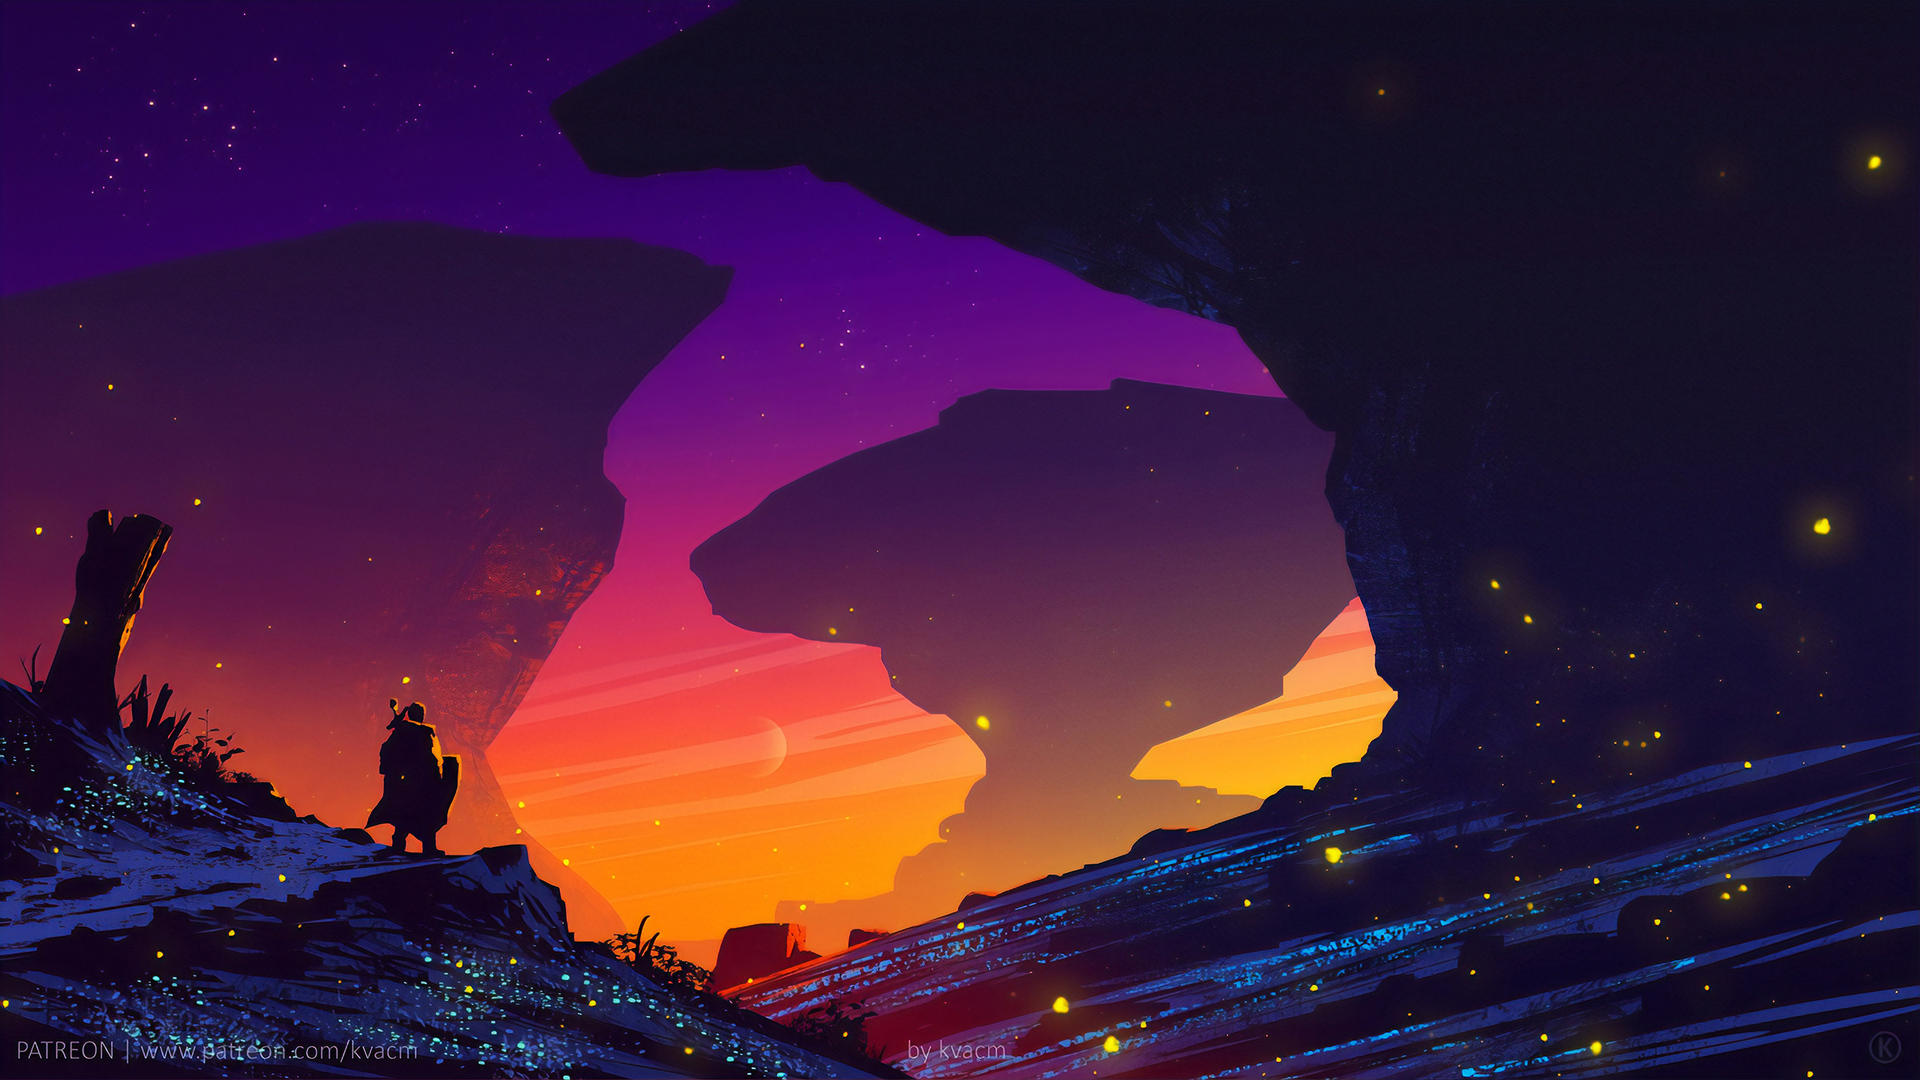
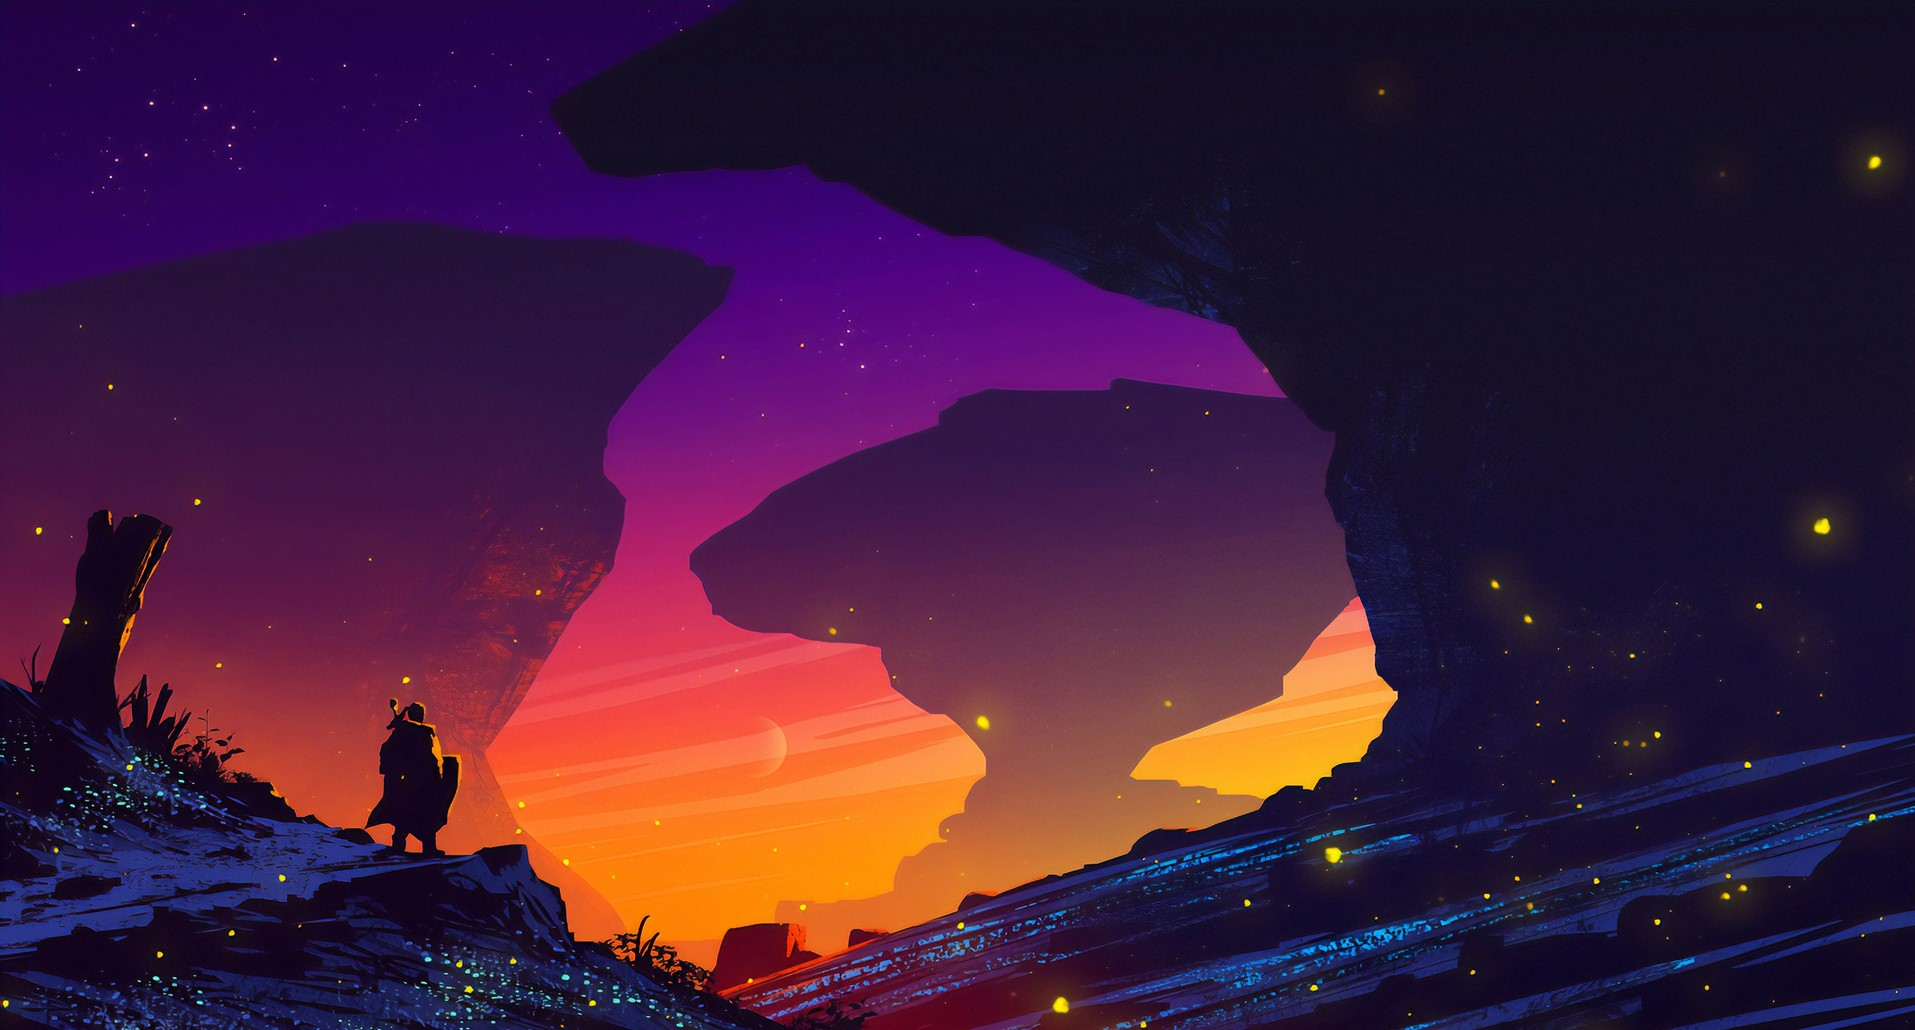
touch up

diff --git a/index.css b/index.css
@@ -290,7 +290,7 @@ body::-webkit-scrollbar-thumb {
    max-height: 100%;
    max-height: 100vh;
    max-width: 100%;
-   background: url(./images/fantasy_wallpaper.jpg) no-repeat fixed center center;
+   background: url(./images/grassy-shore.jpg) no-repeat fixed center center;
    background-size: cover;
 }
 .contact-wrapper {
@@ -385,7 +385,7 @@ body::-webkit-scrollbar-thumb {
    color: #7289da;
 }
 .contact-bot .social-media .fa-github:hover {
-   color: black;
+   color: rgb(255, 143, 161);
 }
 .contact-bot .social-media .fa-linkedin-in:hover {
    color: #2867b2;
@@ -410,13 +410,11 @@ body::-webkit-scrollbar-thumb {
 }
 
 /* MEDIA QUERIES */
-@media (max-width: 1400px) {
+@media (max-width: 1200px) { /* desktops */
    /* make projects bigger */
    .projects-container {
       grid-template-columns: 29vw 29vw 29vw;
    }
-}
-@media (max-width: 1100px) {
    /* wrap about-right */
    .about-container {
       flex-direction: column;
@@ -442,33 +440,23 @@ body::-webkit-scrollbar-thumb {
       grid-template-columns: 40vw 40vw;
    }
 
-   /* wrap contact section */
-   .contact-container {
-      flex-direction: column;
-   }
-   .contact-bot {
-      width: 100%;
-      margin-bottom: 50px;
-   }
-   .contact-top {
-      width: 100%;
-   }
    .contact-top form .input {
       width: 65vw;
    }
 }
-@media (max-width: 900px) {
+@media (max-width: 768px) { /* tablets and laptops */
    .home .welcome-text {
       font-size: 40px;
    }
-}
-@media (max-width: 800px) {
+   .navbar {
+      padding: 30px 30px;
+   }
    /* further wrap projects */
    .projects-container {
       grid-template-columns: 80vw;
    }
 }
-@media (max-width: 700px) {
+@media (max-width: 550px) { /* navbar items turn into hamburger */
    /* show hamburger, make navbar dropdown */
    .hamburger.fas {
       display: block; /*make burger visible*/
@@ -489,23 +477,31 @@ body::-webkit-scrollbar-thumb {
       margin-top: 15px;
       margin-bottom: 15px;
    }
+}
+@media (max-width: 480px) { /* phones */
+   .home .welcome-text {
+      font-size: 35px;
+   }
    /* dropdown class can only be defined here so that it's gone when screen size changes */
    .navbar .menu.dropdown {
       border-top: 5px solid rgba(255, 255, 255, 0.75);
       height: 180px;
    }
    .about-left .pfp {
-      width: 210px;
+      width: 180px;
       border: 4px solid var(--blue);
    }
-}
-@media (max-width: 600px) {
-   .home .welcome-text {
-      font-size: 35px;
+   .contact-bot div {
+      /*each contact item*/
+      font-size: 12px;
+      padding: 7px;
+      border-radius: 7px;
+      background-color: rgba(102, 55, 55, 0.4);
+      color: white;
+      margin-bottom: 11px;
    }
-
-   .about-left .pfp {
-      width: 180px;
+   .contact-bot .social-media i {
+      font-size: 25px;
    }
 }
 

diff --git a/index.html b/index.html
@@ -139,8 +139,8 @@ cd '/c/Users/Patri/OneDrive/Desktop/Git Repos/Personal Website Repos'
 
    <!-- CONTACT -->
    <section class="contact" id="contact">
-      <div class="dark-overlay resize-padding">
-         <div class="contact-wrapper">
+      <div class="dark-overlay resize-padding flex-center" style="overflow: hidden;">
+         <div class="contact-wrapper" style="overflow: hidden;">
             <div class="contact-header flex-col-center">
                <p class="header">Contact</p>
             </div>

diff --git a/index.js b/index.js
@@ -39,7 +39,7 @@ for (let i = 0; i < nav_links.length; i++) {
 
 // on scroll
 const navbarOnScroll = () => {
-   if (window.scrollY > 40 || burger_active) {
+   if (window.scrollY > 40 && !atEndOfPage() || burger_active) {
       navbar.classList.add("darken");
    } else {
       navbar.classList.remove("darken");
